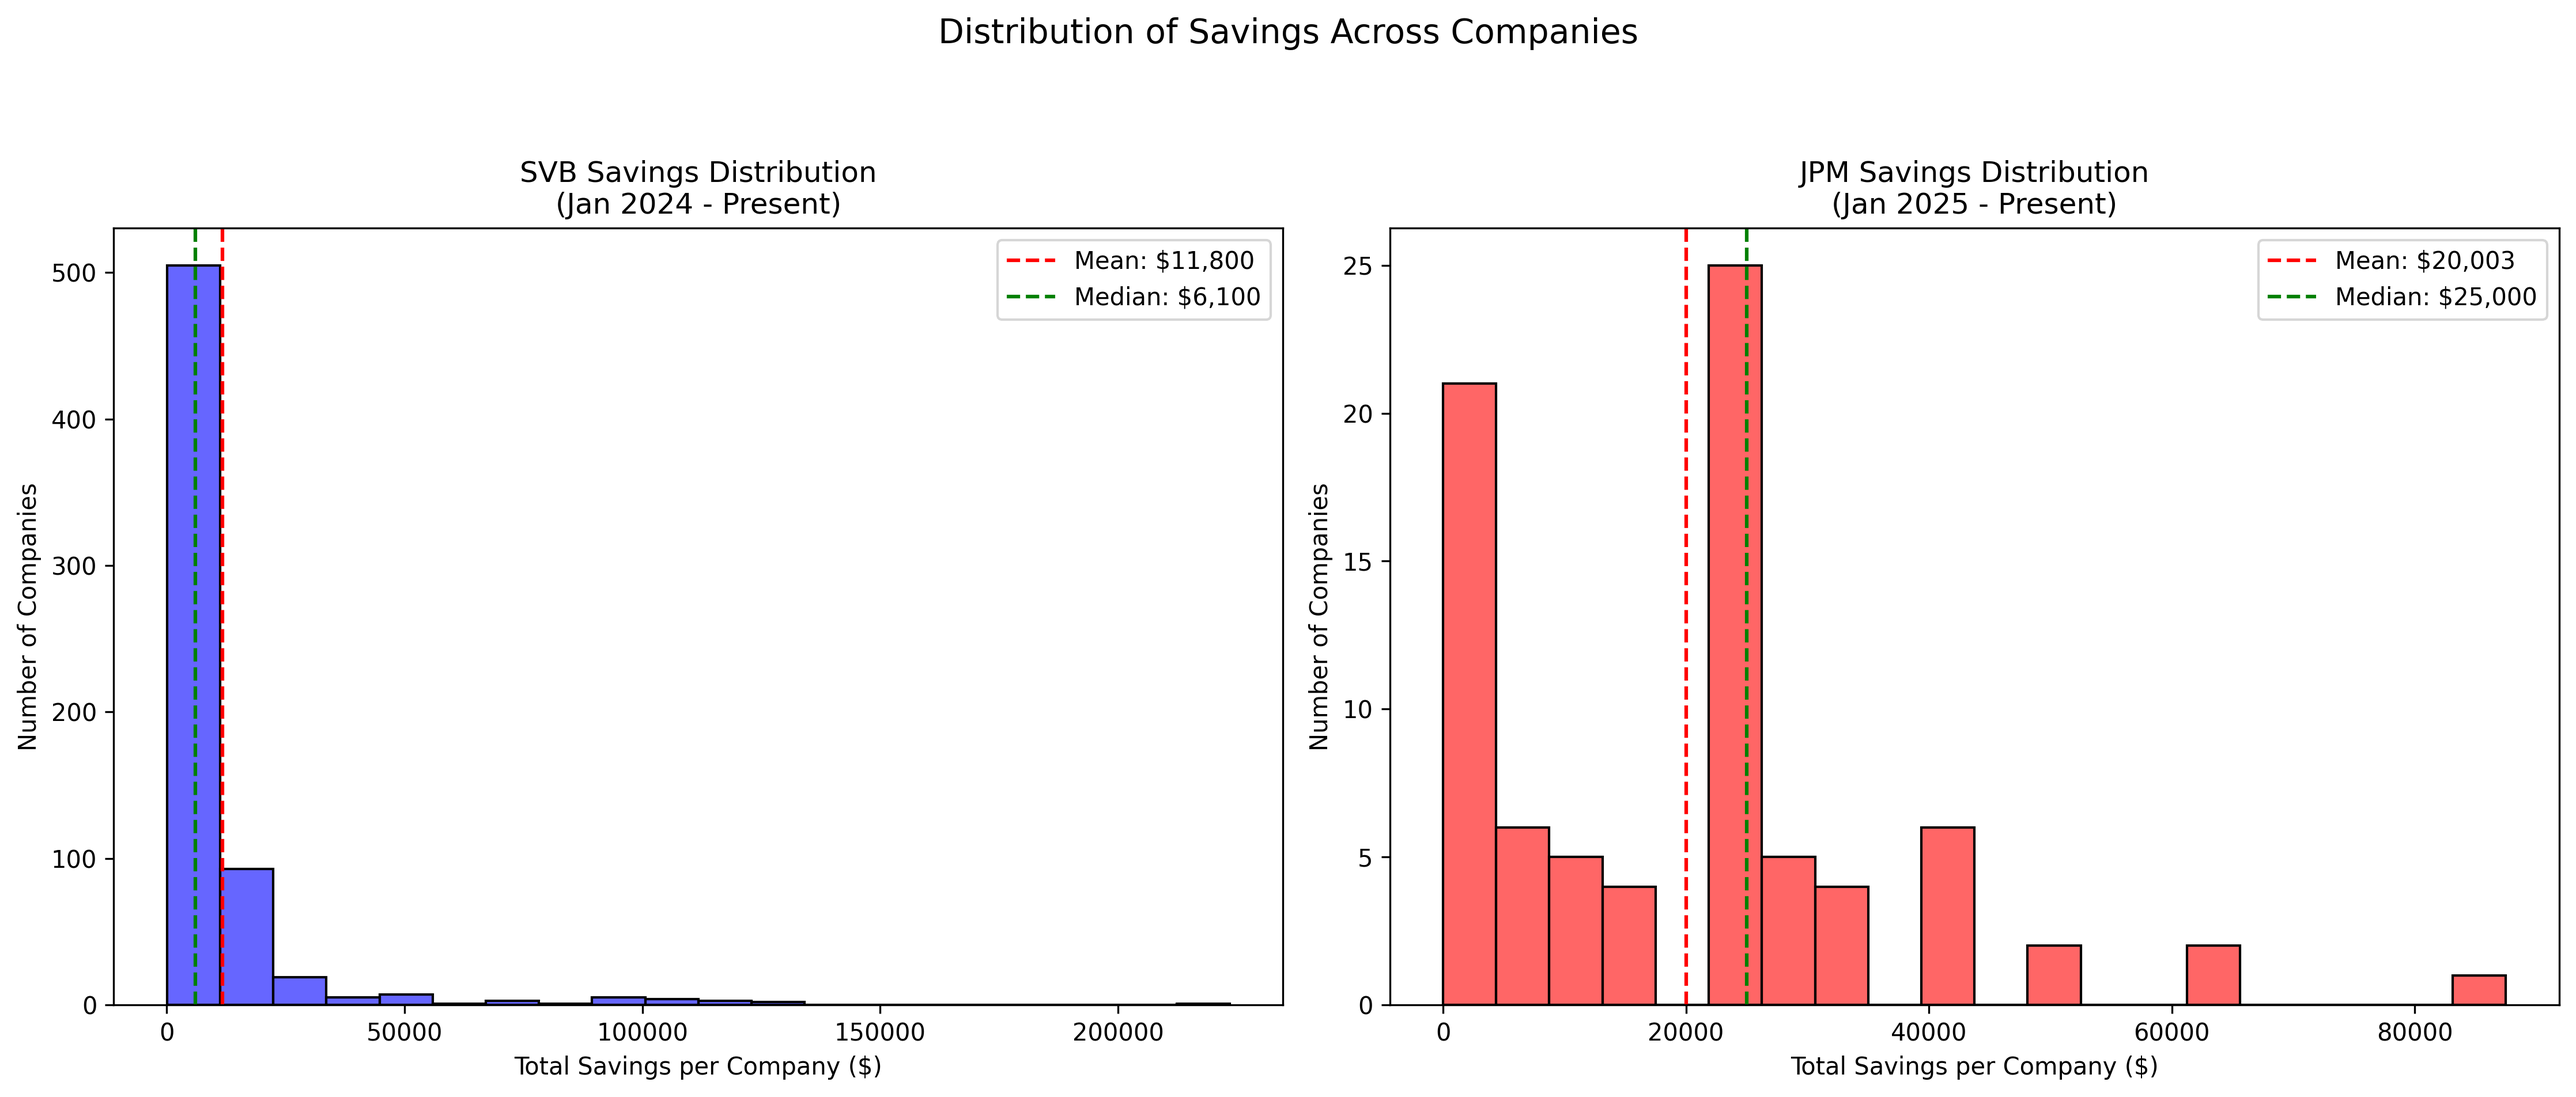
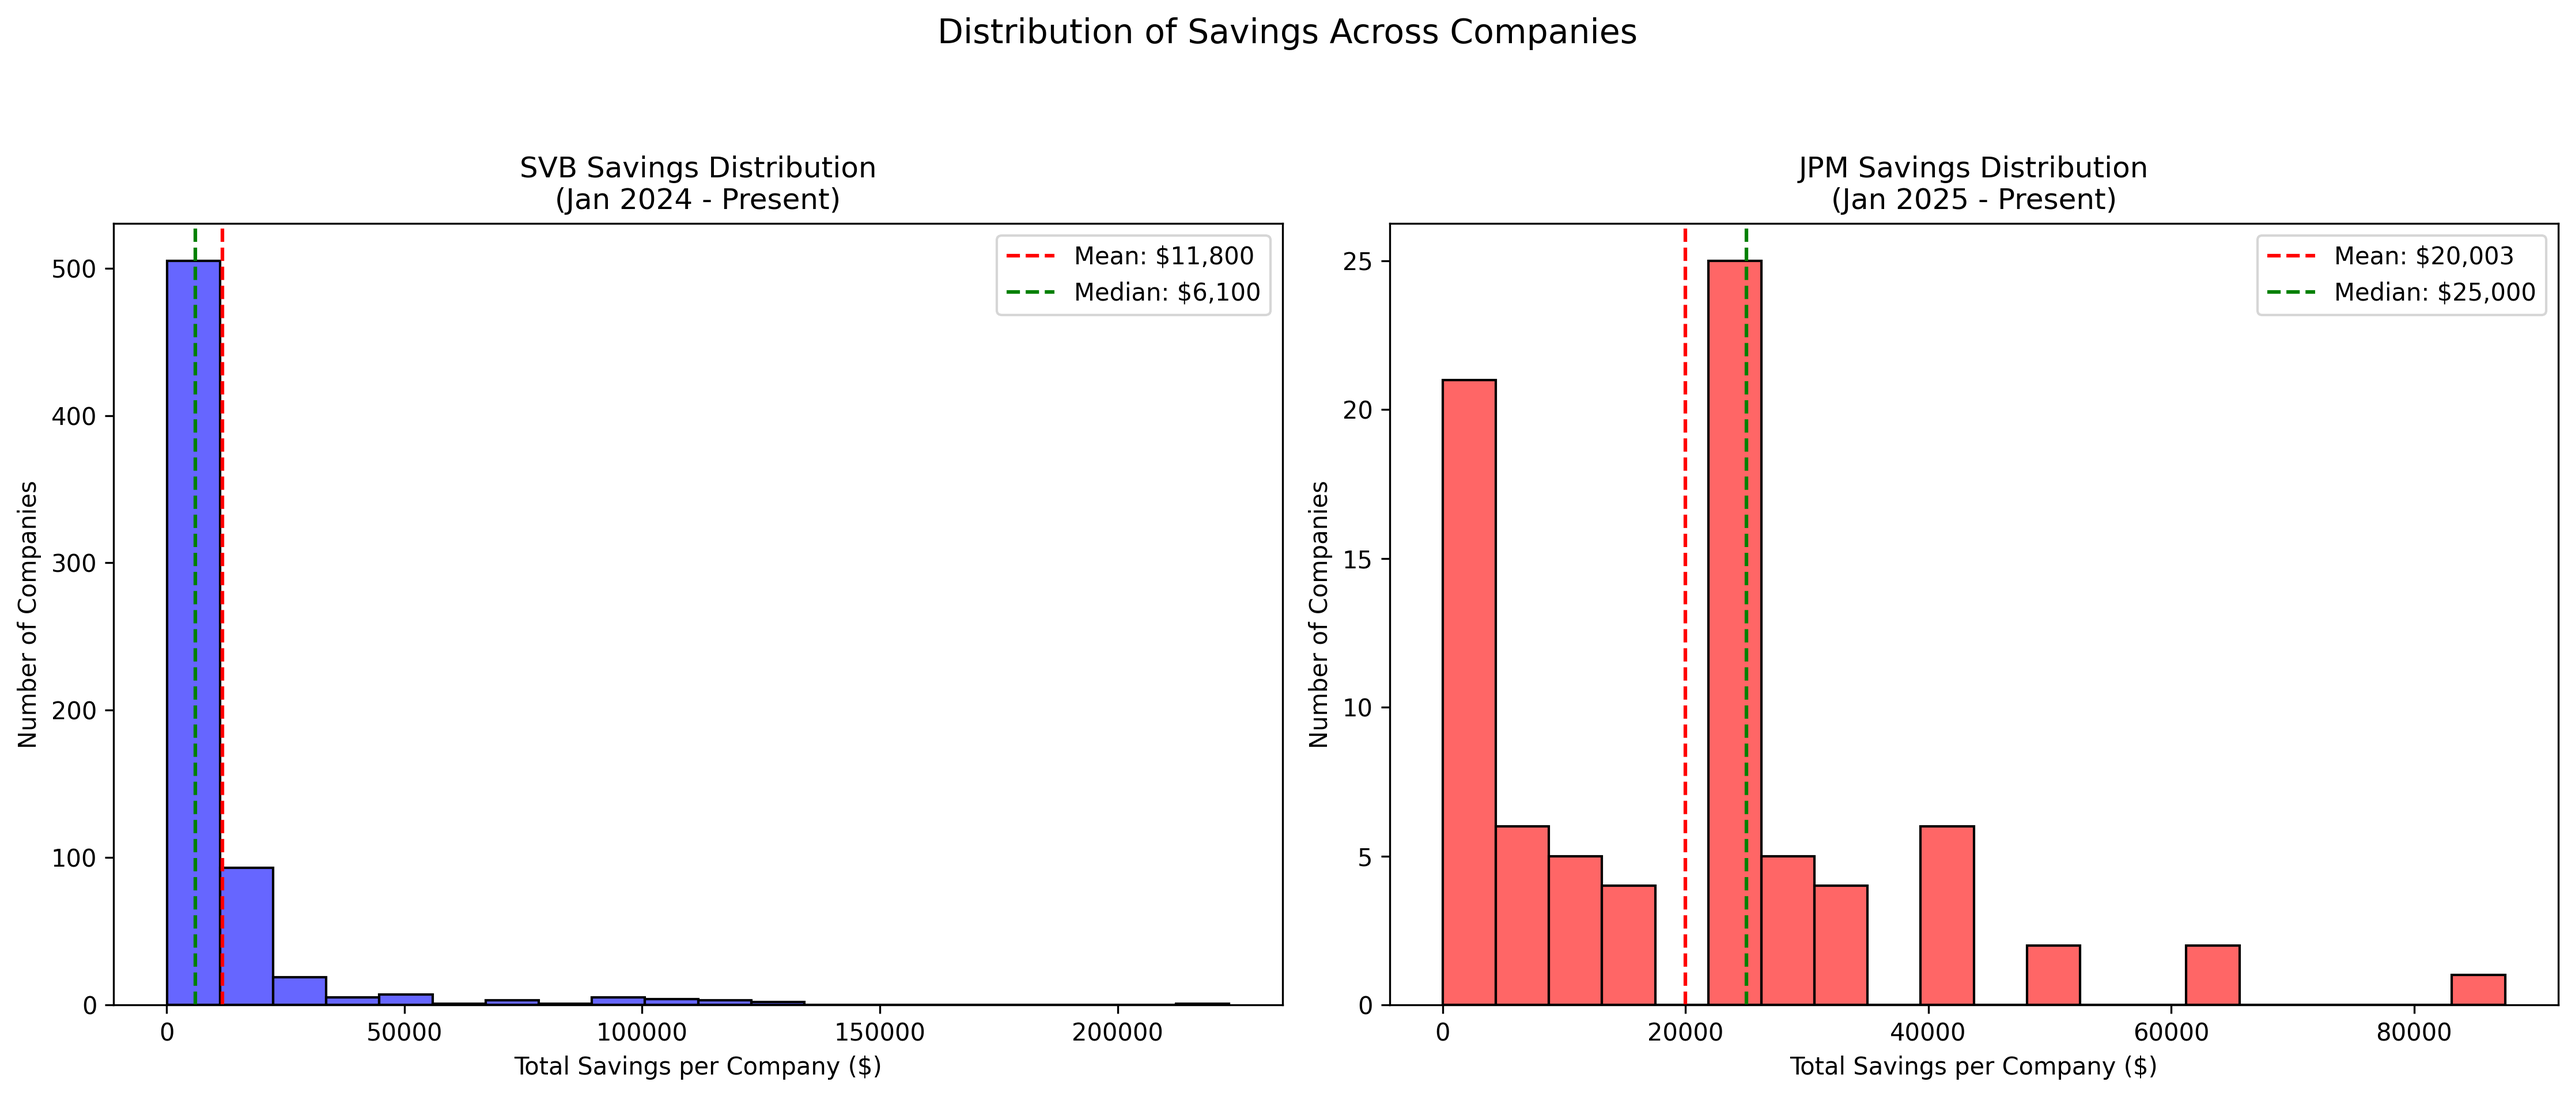
Filter out Amazon deals from analysis and regenerate visualizations

diff --git a/banks/data_analysis/model_visualization.py b/banks/data_analysis/model_visualization.py
@@ -24,9 +24,11 @@ class SavingsModelVisualizer:
         self.jpm_data = pd.read_csv(self.data_dir / "money_saved_JPM2025.csv")
         self.svb_data = pd.read_csv(self.data_dir / "money_saved_svb2024.csv")
         
-        # Filter out JPM and Chase emails
-        jpm_filter = ~self.jpm_data['Redeemer Domain'].str.contains('jpmorgan|chase', case=False, na=False)
-        svb_filter = ~self.svb_data['Redeemer Domain'].str.contains('jpmorgan|chase', case=False, na=False)
+        # Filter out JPM, Chase, and Amazon deals
+        jpm_filter = ~(self.jpm_data['Redeemer Domain'].str.contains('jpmorgan|chase', case=False, na=False) | 
+                      self.jpm_data['Name of offer'].str.contains('amazon', case=False, na=False))
+        svb_filter = ~(self.svb_data['Redeemer Domain'].str.contains('jpmorgan|chase', case=False, na=False) | 
+                      self.svb_data['Name of offer'].str.contains('amazon', case=False, na=False))
         
         self.jpm_data = self.jpm_data[jpm_filter].copy()
         self.svb_data = self.svb_data[svb_filter].copy()

diff --git a/banks/data_analysis/bank_stats.py b/banks/data_analysis/bank_stats.py
@@ -18,9 +18,11 @@ class BankSavingsAnalyzer:
         self.jpm_data = pd.read_csv(self.data_dir / "money_saved_JPM2025.csv")
         self.svb_data = pd.read_csv(self.data_dir / "money_saved_svb2024.csv")
         
-        # Filter out JPM and Chase emails
-        jpm_filter = ~self.jpm_data['Redeemer Domain'].str.contains('jpmorgan|chase', case=False, na=False)
-        svb_filter = ~self.svb_data['Redeemer Domain'].str.contains('jpmorgan|chase', case=False, na=False)
+        # Filter out JPM, Chase, and Amazon deals
+        jpm_filter = ~(self.jpm_data['Redeemer Domain'].str.contains('jpmorgan|chase', case=False, na=False) | 
+                      self.jpm_data['Name of offer'].str.contains('amazon', case=False, na=False))
+        svb_filter = ~(self.svb_data['Redeemer Domain'].str.contains('jpmorgan|chase', case=False, na=False) | 
+                      self.svb_data['Name of offer'].str.contains('amazon', case=False, na=False))
         
         self.jpm_data = self.jpm_data[jpm_filter].copy()
         self.svb_data = self.svb_data[svb_filter].copy()
